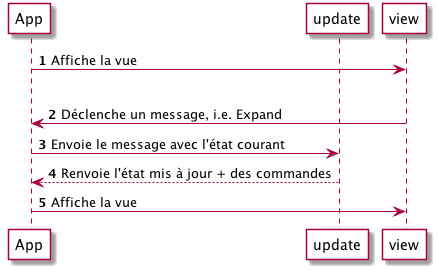
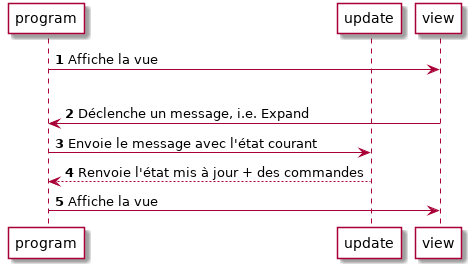
Update chapter 2 FR with latest changes

Changed region(s): [[0.0, 0.1487, 0.9817, 1.0], [0.6842, 0.0, 0.9817, 0.1487], [0.0, 0.0, 0.2082, 0.1487]]

diff --git a/fr/02-elm-arch/02-structure.md b/fr/02-elm-arch/02-structure.md
@@ -1,16 +1,14 @@
-> This page covers Elm 0.17
+> Cette page couvre Elm 0.18
 
-# Structure d'Html.App
+# Structure d'Html.program
 
 ### Imports
 
 ```elm
-import Html exposing (Html, div, text)
-import Html.App
+import Html exposing (Html, div, text, program)
 ```
 
-- Nous allons utiliser le type `Html` du module `Html`, plus d'autres fonctions comme `div` et `text`.
-- Nous importons aussi `Html.App` qui est la glu qui orchestrera toute notre application. C'est l'équivalent de StartApp si vous avez déjà utilisé Elm 0.16.
+- Nous allons utiliser le type `Html` du module `Html`, plus d'autres fonctions comme `div`, `text` et `program`.
 
 ### Modèle
 
@@ -27,7 +25,7 @@ init =
 - Premièrement nous définissons notre modèle d'application avec un alias de type. Ici, c'est juste un `String`.
 - Ensuite, nous définissions une fonction `init`. Cette fonction fournit les données initiales de notre application.
 
-__Html.App__ attend un tuple du type `(model, command)` pour la fonction init. Le premier élément de ce tuple est notre état de départ, à savoir "Hello". Le second élément est une commande à exécuter. Nous reviendrons là dessus un peu plus tard.
+__Html.program__ attend un tuple du type `(model, command)` pour la fonction init. Le premier élément de ce tuple est notre état de départ, à savoir "Hello". Le second élément est une commande à exécuter. Nous reviendrons là dessus un peu plus tard.
 
 
 Lorsque nous utilisons l'architecture Elm, nous regroupons tous les modèles de composants au sein d'un seul arbre d'état. Nous y reviendrons aussi plus tard.
@@ -70,7 +68,7 @@ update msg model =
             ( model, Cmd.none )
 ```
 
-Ensuite nous définissons la fonction de mise à jour `update`, cette fonction va être appelée par Html.App à chaque fois qu'un message est reçu. Cette fonction `update` répond aux messages en mettant à jour le modèle et en retournant des commandes à exécuter.
+Ensuite nous définissons la fonction de mise à jour `update`, cette fonction va être appelée par `Html.program` à chaque fois qu'un message est reçu. Cette fonction `update` répond aux messages en mettant à jour le modèle et en retournant des commandes à exécuter.
 
 Dans cet exemple, nous répondons uniquement à `NoOp` et retournons le modèle intouché et `Cmd.none` (ce qui signifie aucune commande à exécuter).
 
@@ -88,14 +86,14 @@ Nous utilisons les souscriptions (_subscriptions_) pour écouter les entrées ex
 - Évènements du clavier
 - Changement d'url du navigateur
 
-Dans notre cas, nous ne sommes pas intéressés par une quelconque entrée externe, donc nous utilisons `Sub.none`. Notez la signature de la fonction : `Sub Msg`. Les souscriptions d'un composant devraient toutes être de ce même type.
+Dans notre cas, nous ne sommes pas intéressés par une quelconque entrée externe, donc nous utilisons `Sub.none`.
 
 ### Main
 
 ```elm
-main : Program Never
+main : Program Never Model Msg
 main =
-    Html.App.program
+    program
         { init = init
         , view = view
         , update = update
@@ -103,7 +101,7 @@ main =
         }
 ```
 
-Enfin, `Html.App.program` lie le tout et retourne un élément html que nous pouvons afficher dans la page. `program` prend en paramètre nos fonctions `init`, `view`, `update` et `subscriptions`.
+Enfin, `Html.program` lie le tout et retourne un élément html que nous pouvons afficher dans la page. `program` prend en paramètre nos fonctions `init`, `view`, `update` et `subscriptions`.
 
 
 

diff --git a/fr/02-elm-arch/08-composition-3.md b/fr/02-elm-arch/08-composition-3.md
@@ -1,3 +1,5 @@
+> Cette page couvre Elm 0.18
+
 # Composition
 
 Ci-dessous deux diagrammes qui illustrent cette architecture :
@@ -6,7 +8,7 @@ Ci-dessous deux diagrammes qui illustrent cette architecture :
 
 ![Flow](06-composition.png)
 
-(1) __App__ appelle __Main.initialModel__ pour obtenir le modèle initial de l'application.
+(1) __program__ appelle __Main.initialModel__ pour obtenir le modèle initial de l'application.
 
 (2) __Main__ appelle __Widget.initialModel__
 
@@ -14,15 +16,15 @@ Ci-dessous deux diagrammes qui illustrent cette architecture :
 
 (4) __Main__ retourne un modèle principal composé, qui inclut le modèle du widget
 
-(5) __App__ appelle __Main.view__ en lui passant le modèle principal __mainModel__
+(5) __program__ appelle __Main.view__ en lui passant le modèle principal __mainModel__
 
 (6) __Main.view__ appelle __Widget.view__, en lui passant __widgetModel__ du modèle principal
 
 (7) __Widget.view__ retourne l'Html calculé à __Main__
 
-(8) __Main.view__ retourne l'Html calculé à __App__
+(8) __Main.view__ retourne l'Html calculé à __program__
 
-(9) __App__ affiche le tout dans le navigateur.
+(9) __program__ affiche le tout dans le navigateur.
 
 ---
 
@@ -34,17 +36,17 @@ Ci-dessous deux diagrammes qui illustrent cette architecture :
 
 (2) __Widget.view__ émet un message __Increase__ qui est récupéré par __Main.view__.
 
-(3) __Main.view__ étiquette ce message de manière à ce qu'il devienne `WidgetMsg Increase` et il est ensuite envoyé à __App__ 
+(3) __Main.view__ étiquette ce message de manière à ce qu'il devienne `WidgetMsg Increase` et il est ensuite envoyé à __program__ 
 
-(4) __App__ appelle __Main.update__ avec ce message et le modèle principal
+(4) __program__ appelle __Main.update__ avec ce message et le modèle principal
 
 (5) Puisque le message a été étiqueté avec  __WidgetMsg__, __Main.update__ délègue la mise à jour à  __Widget.update__, qu'il prend soin d'appeler avec la partie __widgetModel__ du modèle principal
 
 (6) __Widget.update__ modifie le modèle en fonction du message reçu, dans notre cas, __Increase__. Il retourne ensuite le __widgetModel__ modifié plus une commande
 
-(7) __Main.update__ met à jour le modèle principal et le retourne à  __App__
+(7) __Main.update__ met à jour le modèle principal et le retourne à  __program__
 
-(8) Ensuite __App__ affiche de nouveau la vue en passant le modèle principal mis à jour
+(8) Ensuite __program__ affiche de nouveau la vue en passant le modèle principal mis à jour
 
 ## Points clés
 

diff --git a/fr/02-elm-arch/07-composition-2.md b/fr/02-elm-arch/07-composition-2.md
@@ -1,4 +1,4 @@
-> This page covers Elm 0.17
+> Cette page couvre Elm 0.18
 
 # Composition
 
@@ -9,8 +9,7 @@ Voici le code du composant parent :
 ```elm
 module Main exposing (..)
 
-import Html exposing (Html)
-import Html.App
+import Html exposing (Html, program)
 import Widget
 
 
@@ -48,7 +47,7 @@ type Msg
 view : AppModel -> Html Msg
 view model =
     Html.div []
-        [ Html.App.map WidgetMsg (Widget.view model.widgetModel)
+        [ Html.map WidgetMsg (Widget.view model.widgetModel)
         ]
 
 
@@ -68,7 +67,7 @@ update message model =
 
 
 
--- SUBSCIPTIONS
+-- SUBSCRIPTIONS
 
 
 subscriptions : AppModel -> Sub Msg
@@ -80,7 +79,7 @@ subscriptions model =
 -- APP
 
 
-main : Program Never
+main : Program Never AppModel Msg
 main =
     Html.App.program
         { init = init
@@ -157,13 +156,13 @@ type Msg
 view : AppModel -> Html Msg
 view model =
     Html.div []
-        [ Html.App.map➊ WidgetMsg➋ (Widget.view➌ model.widgetModel➍)
+        [ Html.map➊ WidgetMsg➋ (Widget.view➌ model.widgetModel➍)
         ]
 ```
 
 La fonction `view` de l'application affiche `Widget.view` ➌. Mais `Widget.view` émet des messages de type `Widget.Msg` qui ne sont pas compatibles avec cette vue, qui elle émet des messages du type `Main.Msg`.
 
-- Nous utilisons `Html.App.map` ➊  pour transformer les messages émis de `Widget.view` vers le type que nous attendons (Msg). `Html.App.map` étiquette les messages venant de la sous-vue en utilisant l'étiquette `WidgetMsg` ➋.
+- Nous utilisons `Html.map` ➊  pour transformer les messages émis de `Widget.view` vers le type que nous attendons (Msg). `Html.map` étiquette les messages venant de la sous-vue en utilisant l'étiquette `WidgetMsg` ➋.
 - Nous passons uniquement la partie du modèle qui concerne le composant enfant, à savoir `model.widgetModel` ➍.
 
 ### Mise à jour

diff --git a/fr/02-elm-arch/04-flux.md b/fr/02-elm-arch/04-flux.md
@@ -1,13 +1,15 @@
+> Cette page couvre Elm 0.18
+
 # Flux d'une application
 
-Le diagramme suivant illustre comment les pièces de notre application interagissent avec Html.App.
+Le diagramme suivant illustre comment les pièces de notre application interagissent avec Html.program.
 
 ![Flux](04-flux.png)
 
-1. Html.App appelle notre fonction `view` avec le modèle initial et l'affiche.
+1. Html.program appelle notre fonction `view` avec le modèle initial et l'affiche.
 1. Lorsque l'utilisateur clique sur le bouton _Expand_, la vue déclenche le message `Expand`.
-1. Html.App reçoit le message `Expand` qui appelle notre fonction `update` avec comme paramètres `Expand` et l'état actuel de notre application.
+1. Html.program reçoit le message `Expand` qui appelle notre fonction `update` avec comme paramètres `Expand` et l'état actuel de notre application.
 1. La fonction `update` répond au message en retournant l'état mis à jour et une commande à exécuter (ou aucune avec `Cmd.none`).
-1. Html.App reçoit l'état mis à jour, le stocke, et appelle la vue avec l'état mis à jour.
+1. Html.program reçoit l'état mis à jour, le stocke, et appelle la vue avec l'état mis à jour.
 
-Habituellement, l'état d'une application Elm se trouve uniquement au sein d'Html.App, il est centralisé dans un grand arbre d'état.
+Habituellement, l'état d'une application Elm se trouve uniquement au sein d'`Html.program`, il est centralisé dans un grand arbre d'état.

diff --git a/fr/02-elm-arch/03-messages.md b/fr/02-elm-arch/03-messages.md
@@ -1,13 +1,13 @@
-> This page covers Elm 0.17
+> Cette page couvre Elm 0.18
 
 # Messages
 
-Dans la dernière section, nous avons créé une application avec Html.App qui ne contenait que de l'Html statique. Créons maintenant une application qui répond aux interactions des utilisateurs en utilisant des messages.
+Dans la dernière section, nous avons créé une application avec `Html.program` qui ne contenait que de l'Html statique. Créons maintenant une application qui répond aux interactions des utilisateurs en utilisant des messages.
 
 ```elm
 module Main exposing (..)
 
-import Html exposing (Html, button, div, text)
+import Html exposing (Html, button, div, text, program)
 import Html.Events exposing (onClick)
 import Html.App
 
@@ -77,7 +77,7 @@ subscriptions model =
 
 
 main =
-    Html.App.program
+    program
         { init = init
         , view = view
         , update = update
@@ -123,5 +123,5 @@ update msg model =
 
 `update` a pour rôle de répondre aux messages possibles. En fonction du message, elle retourne l'état désiré. Par exemple, lorsqu'elle reçoit le message `Expand`, le nouvel état sera `True` (développé).
 
-Voyons ensuite comment __Html.App__ orchestre toutes ces pièces ensemble.
+Voyons ensuite comment __Html.program__ orchestre toutes ces pièces ensemble.
 

diff --git a/fr/02-elm-arch/01-introduction.md b/fr/02-elm-arch/01-introduction.md
@@ -1,10 +1,10 @@
-> This page covers Elm 0.17
+> Cette page couvre Elm 0.18
 
 # Introduction
 
 Lorsque nous construisons des applications frontend avec Elm, nous utilisons un modèle nommé l'__architecture Elm__. Ce modèle fourni un moyen de créer des composants autonomes qui peuvent être réutilisés, combinés et composés à l'infini.
 
-Elm fourni le module `Html.App` pour cela. Le plus simple pour comprendre est de créer une petite application.
+Elm fourni le module `Html` pour cela. Le plus simple pour comprendre est de créer une petite application.
 
 Installez elm-html :
 
@@ -17,8 +17,7 @@ Créez un fichier nommé __App.elm__ :
 ```elm
 module App exposing (..)
 
-import Html exposing (Html, div, text)
-import Html.App
+import Html exposing (Html, div, text, program)
 
 
 -- MODEL
@@ -75,9 +74,9 @@ subscriptions model =
 -- MAIN
 
 
-main : Program Never
+main : Program Never Model Msg
 main =
-    Html.App.program
+    program
         { init = init
         , view = view
         , update = update

diff --git a/fr/02-elm-arch/05-messages-et-donnees-attachees.md b/fr/02-elm-arch/05-messages-et-donnees-attachees.md
@@ -1,4 +1,4 @@
-> This page covers Elm 0.17
+> Cette page couvre Elm 0.18
 
 # Messages et données attachées
 
@@ -7,7 +7,7 @@ Il est possible d'attacher des données à vos messages :
 ```elm
 module Main exposing (..)
 
-import Html exposing (Html, button, div, text)
+import Html exposing (Html, button, div, text, program)
 import Html.Events exposing (onClick)
 import Html.App
 
@@ -68,9 +68,9 @@ subscriptions model =
 -- MAIN
 
 
-main : Program Never
+main : Program Never Model Msg
 main =
-    Html.App.program
+    program
         { init = init
         , view = view
         , update = update

diff --git a/fr/02-elm-arch/06-composition.md b/fr/02-elm-arch/06-composition.md
@@ -1,4 +1,4 @@
-> This page covers Elm 0.17
+> Cette page couvre Elm 0.18
 
 # Composition
 
